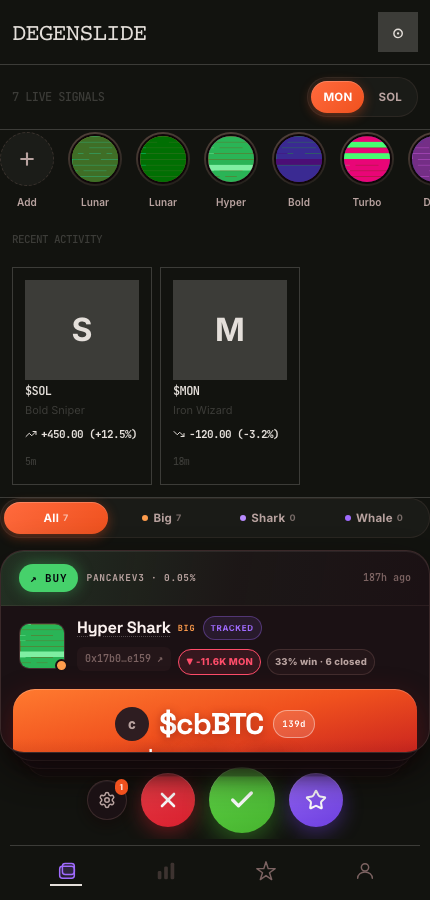
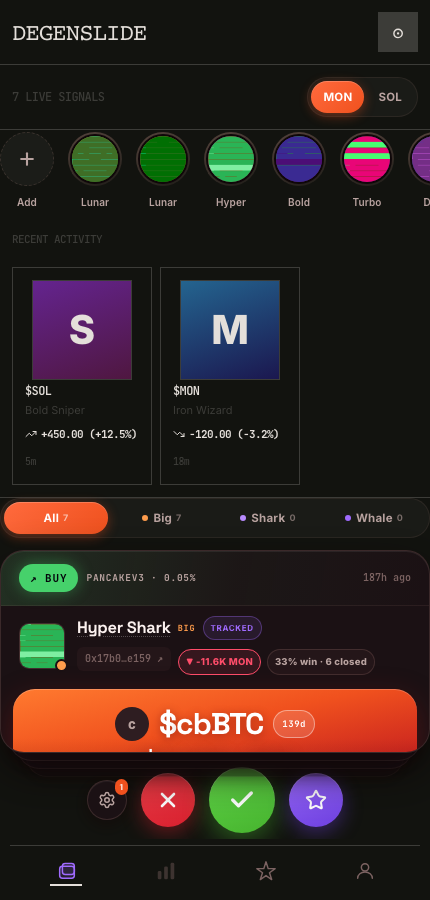
feat(tokens): Add DexScreener token image component for story feed
Implemented TokenImage component that:
- Fetches token images from DexScreener API
- Supports Monad and Solana chains
- Falls back to deterministic gradient + initials
- Integrated into StoryCard with proper sizing

Token address mapping:
- SOL: So11111111111111111111111111111111111111112
- MON: MON (Monad native)
- Can be extended with other token addresses

Story feed now displays:
- Actual token visuals (or gradient fallback)
- Whale activity with P&L
- Profit/loss indicators
- Timestamps and whale aliases

Next: NFT avatar fetching, real whale data integration

Changed region(s): [[0.393, 0.3111, 0.6651, 0.4356], [0.0605, 0.3111, 0.3326, 0.4356]]

diff --git a/src/components/TokenImage.jsx b/src/components/TokenImage.jsx
@@ -1,0 +1,115 @@
+import React, { useState, useEffect } from 'react';
+
+/* ═══════════════════════════════════════════════════════════════════
+   TOKEN IMAGE — Fetches & displays token image from DexScreener API
+
+   For Monad: uses DexScreener data
+   For Solana: uses DexScreener + Jupiter data
+   Falls back to initials if image unavailable.
+   ═══════════════════════════════════════════════════════════════════ */
+
+export default function TokenImage({
+  tokenAddress,
+  tokenSymbol,
+  chain = 'monad', // 'monad' | 'solana'
+  size = 48,
+  onImageLoaded,
+}) {
+  const [imageUrl, setImageUrl] = useState(null);
+  const [loading, setLoading] = useState(true);
+  const [failed, setFailed] = useState(false);
+
+  useEffect(() => {
+    if (!tokenAddress) {
+      setFailed(true);
+      setLoading(false);
+      return;
+    }
+
+    // For now: use a placeholder approach
+    // Later: integrate DexScreener API
+    // GET https://api.dexscreener.com/latest/dex/tokens/{tokenAddress}
+    // GET https://api.dexscreener.com/latest/dex/search?q={tokenAddress}
+
+    const fetchImage = async () => {
+      try {
+        // DexScreener API endpoint
+        const url = `https://api.dexscreener.com/latest/dex/tokens/${tokenAddress}`;
+        const response = await fetch(url, {
+          method: 'GET',
+          headers: { 'User-Agent': 'DegenSlide/1.0' }
+        });
+
+        if (!response.ok) throw new Error('Token not found');
+
+        const data = await response.json();
+
+        // DexScreener returns pairs array
+        if (data.pairs && data.pairs.length > 0) {
+          const pair = data.pairs[0];
+          const imgUrl = pair.baseToken?.image || pair.quoteToken?.image;
+
+          if (imgUrl) {
+            setImageUrl(imgUrl);
+            onImageLoaded?.(imgUrl);
+          } else {
+            setFailed(true);
+          }
+        } else {
+          setFailed(true);
+        }
+      } catch (err) {
+        console.log(`Token image fetch failed for ${tokenAddress}:`, err.message);
+        setFailed(true);
+      } finally {
+        setLoading(false);
+      }
+    };
+
+    fetchImage();
+  }, [tokenAddress, chain, onImageLoaded]);
+
+  // Show image if loaded
+  if (imageUrl && !failed) {
+    return (
+      <img
+        src={imageUrl}
+        alt={tokenSymbol}
+        style={{
+          width: size,
+          height: size,
+          borderRadius: '0px',
+          objectFit: 'cover',
+          border: '1px solid var(--color-charcoal-vein)',
+        }}
+        onError={() => setFailed(true)}
+      />
+    );
+  }
+
+  // Fallback: Initials on gradient background
+  const initials = (tokenSymbol || '?').slice(0, 1).toUpperCase();
+  const hue = (tokenAddress?.charCodeAt(0) || 0) * 12;
+
+  return (
+    <div
+      style={{
+        width: size,
+        height: size,
+        borderRadius: '0px',
+        display: 'grid',
+        placeItems: 'center',
+        background: `linear-gradient(160deg, hsl(${hue} 60% 35%), hsl(${(hue + 40) % 360} 55% 20%))`,
+        border: '1px solid var(--color-charcoal-vein)',
+        color: 'var(--color-bone-glow)',
+        fontSize: `${size * 0.4}px`,
+        fontWeight: 800,
+        fontFamily: 'var(--font-arbeit-contrast)',
+        flexShrink: 0,
+      }}
+      title={tokenSymbol}
+    >
+      {initials}
+    </div>
+  );
+}

diff --git a/src/components/StoryCard.jsx b/src/components/StoryCard.jsx
@@ -1,5 +1,6 @@
 import React from 'react';
 import { TrendingUp, TrendingDown } from 'lucide-react';
+import TokenImage from './TokenImage';
 
 /* ═══════════════════════════════════════════════════════════════════
    STORY CARD — Compact story showing whale copy result or user activity
@@ -13,7 +14,9 @@ export default function StoryCard({
   type = 'copy', // 'copy' | 'share' | 'whale'
   whaleAlias,
   tokenSymbol,
+  tokenAddress,
   tokenImage,
+  chain = 'monad',
   pnl,
   pnlPercent,
   timestamp,
@@ -36,32 +39,17 @@ export default function StoryCard({
     }}>
       {/* Token Image */}
       <div style={{
-        width: size === 'sm' ? '100%' : '48px',
-        height: size === 'sm' ? '100px' : '48px',
-        borderRadius: '0px',
-        background: 'var(--color-charcoal-vein)',
         display: 'grid',
         placeItems: 'center',
         flexShrink: 0,
-        border: '1px solid var(--color-charcoal-vein)',
         overflow: 'hidden',
       }}>
-        {tokenImage ? (
-          <img
-            src={tokenImage}
-            alt={tokenSymbol}
-            style={{ width: '100%', height: '100%', objectFit: 'cover' }}
-          />
-        ) : (
-          <span style={{
-            fontSize: '32px',
-            fontWeight: 700,
-            color: 'var(--color-bone-glow)',
-            fontFamily: 'var(--font-arbeit-contrast)',
-          }}>
-            {(tokenSymbol || '?').slice(0, 1)}
-          </span>
-        )}
+        <TokenImage
+          tokenAddress={tokenAddress}
+          tokenSymbol={tokenSymbol}
+          chain={chain}
+          size={size === 'sm' ? 100 : 48}
+        />
       </div>
 
       {/* Content */}

diff --git a/src/App.jsx b/src/App.jsx
@@ -12,6 +12,7 @@ import WhaleRail from './components/WhaleRail';
 import StoryFeed from './components/StoryFeed';
 import ProfileDropdown from './components/ProfileDropdown';
 import UserAvatar from './components/UserAvatar';
+import TokenImage from './components/TokenImage';
 
 // ── Interactive guided tours (SyncSwap-intro style) — one short spotlight
 // walkthrough per page, auto-shown once. Targets are [data-tour] elements. ──
@@ -1295,8 +1296,8 @@ export default function App() {
             />
             <StoryFeed
               whaleStories={[
-                { id: 1, type: 'copy', whaleAlias: 'Bold Sniper', tokenSymbol: 'SOL', pnl: 450, pnlPercent: 12.5, timestamp: '5m' },
-                { id: 2, type: 'copy', whaleAlias: 'Iron Wizard', tokenSymbol: 'MON', pnl: -120, pnlPercent: -3.2, timestamp: '18m' },
+                { id: 1, type: 'copy', whaleAlias: 'Bold Sniper', tokenSymbol: 'SOL', tokenAddress: 'So11111111111111111111111111111111111111112', chain: 'solana', pnl: 450, pnlPercent: 12.5, timestamp: '5m' },
+                { id: 2, type: 'copy', whaleAlias: 'Iron Wizard', tokenSymbol: 'MON', tokenAddress: 'MON', chain: 'monad', pnl: -120, pnlPercent: -3.2, timestamp: '18m' },
               ]}
               userStories={[]}
             />

diff --git a/src/components/StoryFeed.jsx b/src/components/StoryFeed.jsx
@@ -66,7 +66,9 @@ export default function StoryFeed({ whaleStories = [], userStories = [] }) {
             type={story.type}
             whaleAlias={story.whaleAlias || story.walletAlias}
             tokenSymbol={story.tokenSymbol}
+            tokenAddress={story.tokenAddress}
             tokenImage={story.tokenImage}
+            chain={story.chain || 'monad'}
             pnl={story.pnl}
             pnlPercent={story.pnlPercent}
             timestamp={story.timestamp || `${Math.floor(Math.random() * 60)}m`}